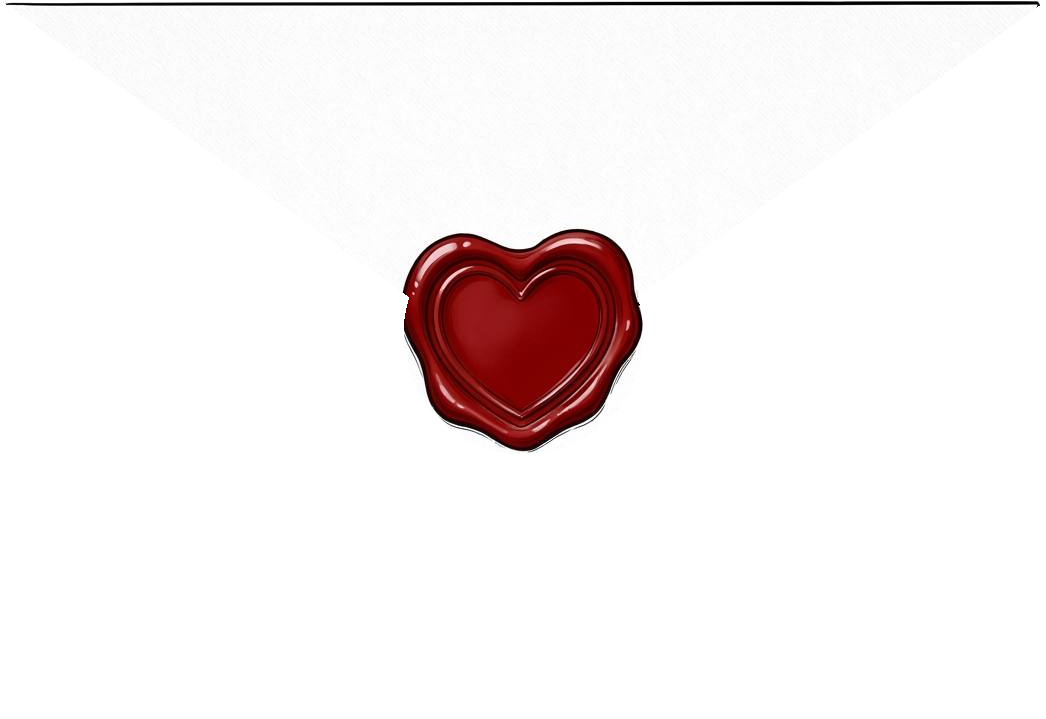
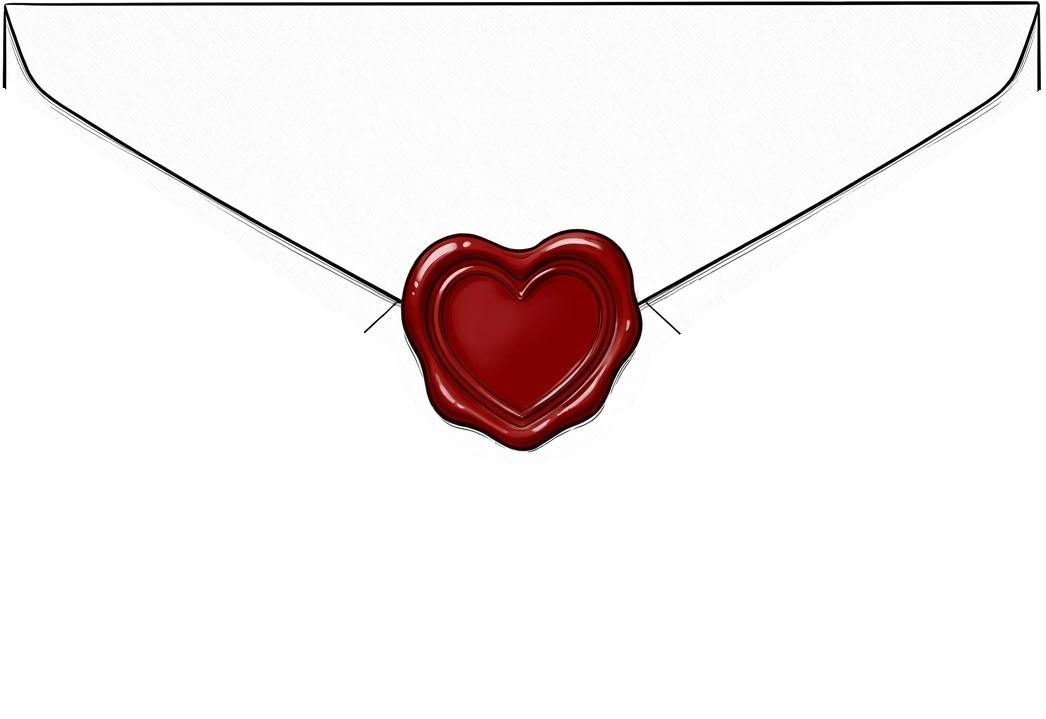
Final cache-busting push and translateY tweak

diff --git a/index.html b/index.html
@@ -620,7 +620,7 @@
         }
 
         .envelope-container.open .envelope-letter {
-            transform: translateY(-90px);
+            transform: translateY(-70px);
         }
 
         .envelope-guide {